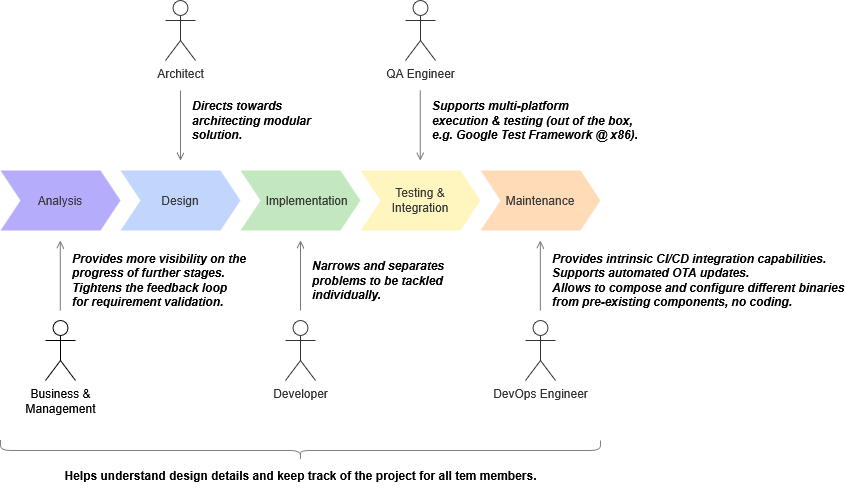
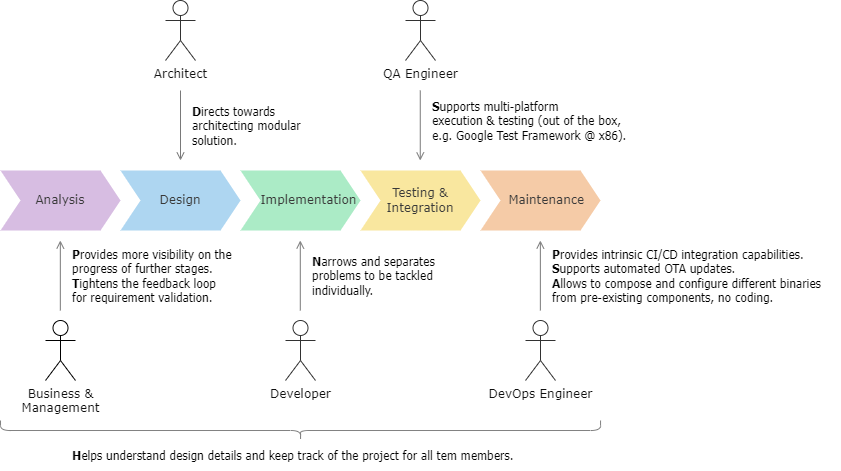
SDLC img update, Readme update (+Applicability).

diff --git a/README.md b/README.md
@@ -2,27 +2,22 @@
 Further referred to as **diff**.
 
 ## Make a difference
-_Diff_ is a C++ framework targeted for embedded systems. It provides a structured way to design and implement software - making it **modular**, **maintainable** and **reusable**. 
+Diff is a C++ framework targeted for embedded systems. It provides a structured way to design and implement software - making it **modular**, **maintainable** and **reusable**. 
 
-It supports software **development process** from multiple perspectives:
-- Directs **architects** to create modular design,
-- Narrows the playground for **development** and **QA** to focus on single problem at a time,
-- Lets **non-technical** team members to understand the design and even compose and configure the final application binary.
+It supports embedded software development lifecycle from multiple perspectives:
 
-All that with **CI/CD** automation in mind. 
+<p align="center"><img src="img/sdlc.png" alt="Diff support for SDLC."/></p>
 
-<p align="center"><img src="img/sdlc.png" alt="SDLC support from diff."/></p>
-
-The framework uses [Dependency Injection](https://en.wikipedia.org/wiki/Dependency_injection) design pattern on top of user-provided set of [software components](https://en.wikipedia.org/wiki/Software_component). Components in diff serve as **building blocks** for the final design. Each component provides a solution to a distinct problem, leveraging decomposition. Each is designed and implemented independently. Each can be tested individually and any set of components can be tested together if needed. At the end, the binary is composed of - at this point - off-the-shelf components, following a topology described by a **human-readable Json** file. 
+The framework uses [Dependency Injection](https://en.wikipedia.org/wiki/Dependency_injection) design pattern on top of user-provided set of [software components](https://en.wikipedia.org/wiki/Software_component). Components in diff serve as **building blocks** for the final design. Each component provides a solution to a distinct problem, leveraging decomposition. Each is designed and implemented independently. Each can be tested individually and any set of components can be tested together if needed. At the end, the binary is composed of - at that point - **off-the-shelf** components, according to a topology described in **human-readable Json** file. 
 
 ## Diff components, modules and instances
 Diff operates on two component types:
-- **Component** is a single C++ class which encapsulates a specific functionality. It holds the implementation. Its internal architecture may be complex, utilizing various other classes and libraries. The class itsself is only visible to the framework. If certain functionality needs to be exposed or utilized, it must be done by implementing or consuming an _interface component_.
-- **Interface Component** is a single abstract class which determines how certain functionality shall be used. It does not consist the information on how it is implemented. The functionality represented by _interface component_ can be either implemented and/or consumed by a regular _component_. _Interface components_ serve as joint points between regular _components_. For this reason they shall consist of as little code as possible (to make it bug-proof) - ideally only an abstract interface.
+- _[regular]_ **Component** is a single C++ class which encapsulates a specific functionality. It holds the implementation. Its internal architecture may be complex, utilizing various other classes and libraries. The class itsself will only be only visible to the framework. If certain functionality needs to be exposed or utilized by it, it must be done by implementing or consuming an _interface component_.
+- **Interface Component** is a single abstract class which determines how certain functionality shall be used. It does not consist of the information on how it is implemented. The functionality represented by an interface component can be either implemented and/or consumed by a regular component. Interface components serve as joint points between regular components. For this reason they only consist of the minimal amount of code (to make it bug-proof) - ideally being just an abstract interface.
 
-**Module** is a physical representation of a component. Regular _components_ are shipped in form of static or dynamic libraries. Since _interface components_ are just interface declarations, they come in the form of header-only libraries. Diff refers to these libraries as **modules**. They are a subject for versioning and dependency management, where the exact tools used (e.g. CMake, Conan 2) are up to the team and the project.
+**Module** is a physical representation of a component. Regular components are shipped in form of static or dynamic libraries. Since interface components are just interface declarations, they come in the form of header-only libraries. Diff refers to all these libraries as _modules_. They are a subject for versioning and dependency management, but the exact tools used (e.g. CMake, Conan 2) are up to the team and the project. 
 
-Each _module_ can be built and tested on its own. There is no dependency chain, as _components_ only depend on _interface components_ and its internally used tools. 
+Each module can be built and tested on its own. There is no dependency chain, as _components_ only depend on _interface components_ and its internally used tools. 
 
 Framework creates **Component Instances** to compose a hierarchy required by the application. Each _component_ can be instantiated multiple times.
 
@@ -30,3 +25,49 @@ Framework creates **Component Instances** to compose a hierarchy required by the
 Diff requires **C++14** or higher. It utilizes both the language features and also several STL containers provided by the standard. 
 
 As of today the choice of C++14 is a sweet point between taking advantage of modern C++ features and ensuring that almost all targeted toolchains provide the required standard (which is not necessarily true for C++17, yet). 
+
+## Applicability
+The framework is a composition of multiple design patterns, some simple, others pretty complex. The first and main principle behind diff is to only rely on C++ standard. This makes its implementation robust and platform-independent. There may be cases where integration with a specific toolchain requires additional investigation and one-off work, but as verified so far - every tested setup was able smoothly support a diff-based application:
+
+<p align="center">
+<table><thead>
+  <tr>
+    <th>OS \ Architecture</th>
+    <th>x86-32/64</th>
+    <th>ARM</th>
+    <th>Risc-V</th>
+  </tr></thead>
+<tbody>
+  <tr>
+    <td>QNX Neutrino</td>
+    <td></td>
+    <td>✅ qcc</td>
+    <td></td>
+  </tr>
+  <tr>
+    <td>VxWorks</td>
+    <td>✅ gcc</td>
+    <td></td>
+    <td></td>
+  </tr>
+  <tr>
+    <td>Windows</td>
+    <td>✅ msvc</td>
+    <td></td>
+    <td></td>
+  </tr>
+  <tr>
+    <td>Linux</td>
+    <td>✅ gcc, clang</td>
+    <td></td>
+    <td>✅ gcc</td>
+  </tr>
+  <tr>
+    <td>Bare-metal</td>
+    <td></td>
+    <td>✅ armcl</td>
+    <td>✅ gcc</td>
+  </tr>
+</tbody>
+</table>
+</p>
